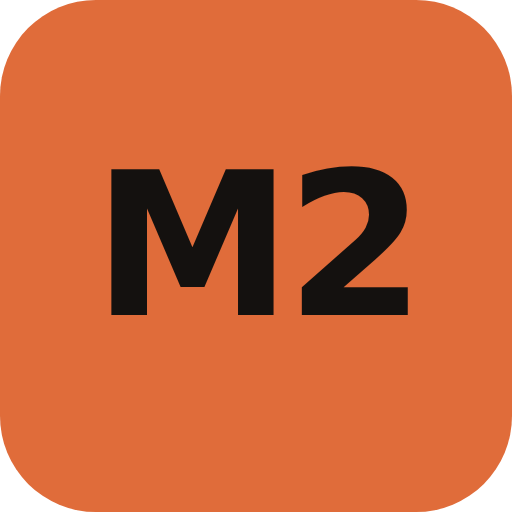
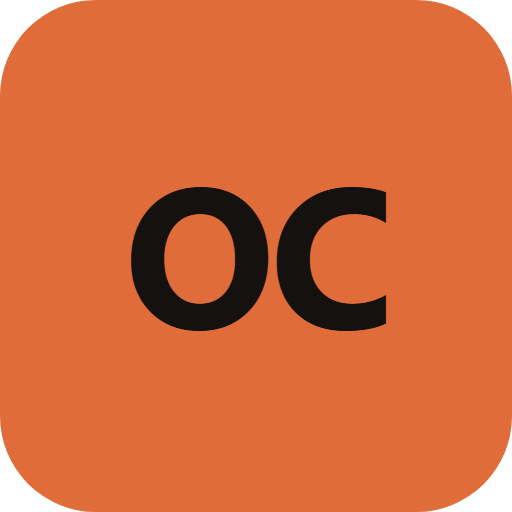
feat: rebrand LMChat/Mach2 -> OrnithChat; remove all model time caps
- Rename everywhere: package name/productName/appId, UI wordmark and
  window title, M2 mark -> OC (icon regenerated), components/lmchat ->
  components/ornithchat, LMChatApp -> OrnithChatApp, lmchat.css ->
  ornithchat.css, storage key mach2:lmchat:v1 -> ornithchat:v1, e2e
  fixtures. Historical docs (previous_plan.md) left intact.
- No time limits on the local model: drop the UI's 11-minute SSE
  inactivity kill (Stop button is the only early exit), set
  OLLAMA_TIMEOUT=None (no per-round httpx ceiling), and make the agent
  loop a true unbounded while-loop that runs as long as the model still
  emits tool calls; scouts keep their explicit 15-round bound. Delete
  the now-stale inactivity-timeout e2e spec.
- Tool outputs in the step trace now collapse by default behind the
  tool-name row; click to expand a subtle scrollable output box.

Changed region(s): [[0.2188, 0.3125, 0.8125, 0.6562]]

diff --git a/app/styles/tokens/colors.css b/app/styles/tokens/colors.css
@@ -1,7 +1,7 @@
 /* ============================================================
-   LMChat — Color tokens
+   OrnithChat — Color tokens
    Dark developer-tool palette. Near-black canvas, warm orange
-   brand accent (from the M2 logo), violet agent accent,
+   brand accent (from the OC logo), violet agent accent,
    terminal semantic colors.
    ============================================================ */
 
@@ -21,7 +21,7 @@
   --muted:       #8a8a96;  /* labels, captions, metadata */
   --faint:       #5a5a66;  /* disabled, placeholder, ghost */
 
-  /* ---- Brand (warm orange — the M2 mark) ---- */
+  /* ---- Brand (warm orange — the OC mark) ---- */
   --brand:         #e06c3a;  /* primary brand + CTA */
   --brand-hover:   #ee7c49;  /* hover (lighter) */
   --brand-active:  #c25a2c;  /* press (darker) */

diff --git a/electron/main.js b/electron/main.js
@@ -1,4 +1,4 @@
-// LMChat desktop shell (Electron).
+// OrnithChat desktop shell (Electron).
 // In dev it loads the Next dev server; when packaged it serves the static
 // export (out/) from a tiny in-process HTTP server and loads that.
 const { app, BrowserWindow, shell, ipcMain, dialog } = require("electron");
@@ -69,7 +69,7 @@ async function createWindow() {
     minWidth: 980,
     minHeight: 640,
     backgroundColor: "#0d0d0f",
-    title: "LMChat",
+    title: "OrnithChat",
     autoHideMenuBar: true,
     // Windows' default title bar renders as a stark white strip that clashes
     // with the app's dark theme. `titleBarStyle: "hidden"` removes it while
@@ -99,7 +99,7 @@ async function createWindow() {
       cancelId: 1,
       noLink: true,
       title: "Open external link?",
-      message: "This link leaves LMChat.",
+      message: "This link leaves OrnithChat.",
       detail: url,
     });
     if (response === 0) shell.openExternal(url);

diff --git a/app/globals.css b/app/globals.css
@@ -1,5 +1,5 @@
 /* ============================================================
-   LMChat — global stylesheet entry point
+   OrnithChat — global stylesheet entry point
    Imports the token + base + component + layout closure in order.
    Mirrors the design system's single-styles.css philosophy.
    Webfonts are loaded via <link> in app/layout.tsx.
@@ -11,4 +11,4 @@
 @import "./styles/tokens/effects.css";
 @import "./styles/tokens/base.css";
 @import "./styles/components.css";
-@import "./styles/lmchat.css";
+@import "./styles/ornithchat.css";

diff --git a/app/page.tsx b/app/page.tsx
@@ -1,5 +1,5 @@
-import { LMChatApp } from "@/components/lmchat/LMChatApp";
+import { OrnithChatApp } from "@/components/ornithchat/OrnithChatApp";
 
 export default function Page() {
-  return <LMChatApp />;
+  return <OrnithChatApp />;
 }

diff --git a/e2e/persistence.spec.ts b/e2e/persistence.spec.ts
@@ -9,7 +9,7 @@ import { test, expect } from "@playwright/test";
    fresh one — which would orphan the backend's real conversational
    context even though the UI still shows continuous chat history. */
 
-const LS_KEY = "mach2:lmchat:v1";
+const LS_KEY = "ornithchat:v1";
 const PERSISTED_BACKEND_SESSION_ID = "11111111-2222-3333-4444-555555555555";
 
 function seededState() {
@@ -22,7 +22,7 @@ function seededState() {
         folderId: null,
         when: "2m",
         lastActiveAt: Date.now(),
-        project: "~/projects/mach2-harness",
+        project: "~/projects/ornith-harness",
         messages: [
           { role: "user", content: "Hello from before the reload" },
           { role: "assistant", content: "Hi — picking up your earlier context." },

diff --git a/app/layout.tsx b/app/layout.tsx
@@ -2,7 +2,7 @@ import type { Metadata, Viewport } from "next";
 import "./globals.css";
 
 export const metadata: Metadata = {
-  title: "LMChat",
+  title: "OrnithChat",
   description:
     "Local agentic coding chat — chat with the local Ornith model over Ollama.",
 };

diff --git a/app/styles/components.css b/app/styles/components.css
@@ -1,5 +1,5 @@
 /* ============================================================
-   LMChat — Design-system component styles
+   OrnithChat — Design-system component styles
    Ported verbatim from the component prototypes. Each primitive
    is global, class-based, and styled purely via design tokens.
    ============================================================ */

diff --git a/app/styles/tokens/base.css b/app/styles/tokens/base.css
@@ -1,5 +1,5 @@
 /* ============================================================
-   LMChat — base reset + global element defaults
+   OrnithChat — base reset + global element defaults
    Dark-canvas, mono-aware foundation. Imported last by globals.css.
    ============================================================ */
 

diff --git a/app/styles/tokens/effects.css b/app/styles/tokens/effects.css
@@ -1,5 +1,5 @@
 /* ============================================================
-   LMChat — Borders, shadows, motion, focus
+   OrnithChat — Borders, shadows, motion, focus
    Depth comes mostly from surface contrast + hairline borders;
    shadows are soft and used sparingly on floating layers.
    ============================================================ */

diff --git a/app/styles/tokens/spacing.css b/app/styles/tokens/spacing.css
@@ -1,5 +1,5 @@
 /* ============================================================
-   LMChat — Spacing, radius, sizing tokens
+   OrnithChat — Spacing, radius, sizing tokens
    Base unit 4px. Compact, dense developer-tool rhythm.
    ============================================================ */
 

diff --git a/app/styles/tokens/typography.css b/app/styles/tokens/typography.css
@@ -1,5 +1,5 @@
 /* ============================================================
-   LMChat — Typography tokens
+   OrnithChat — Typography tokens
    Display: Space Grotesk (techy geometric grotesk, wordmark + headings)
    UI/Body: IBM Plex Sans (humanist-technical, screen body)
    Mono:    JetBrains Mono (code, terminal, inspector data, model IDs)

diff --git a/components/ds/Button.tsx b/components/ds/Button.tsx
@@ -19,7 +19,7 @@ export interface ButtonProps
 }
 
 /**
- * LMChat primary button. Warm-orange brand fill by default; `agent` variant
+ * OrnithChat primary button. Warm-orange brand fill by default; `agent` variant
  * uses the violet agent accent.
  */
 export function Button({